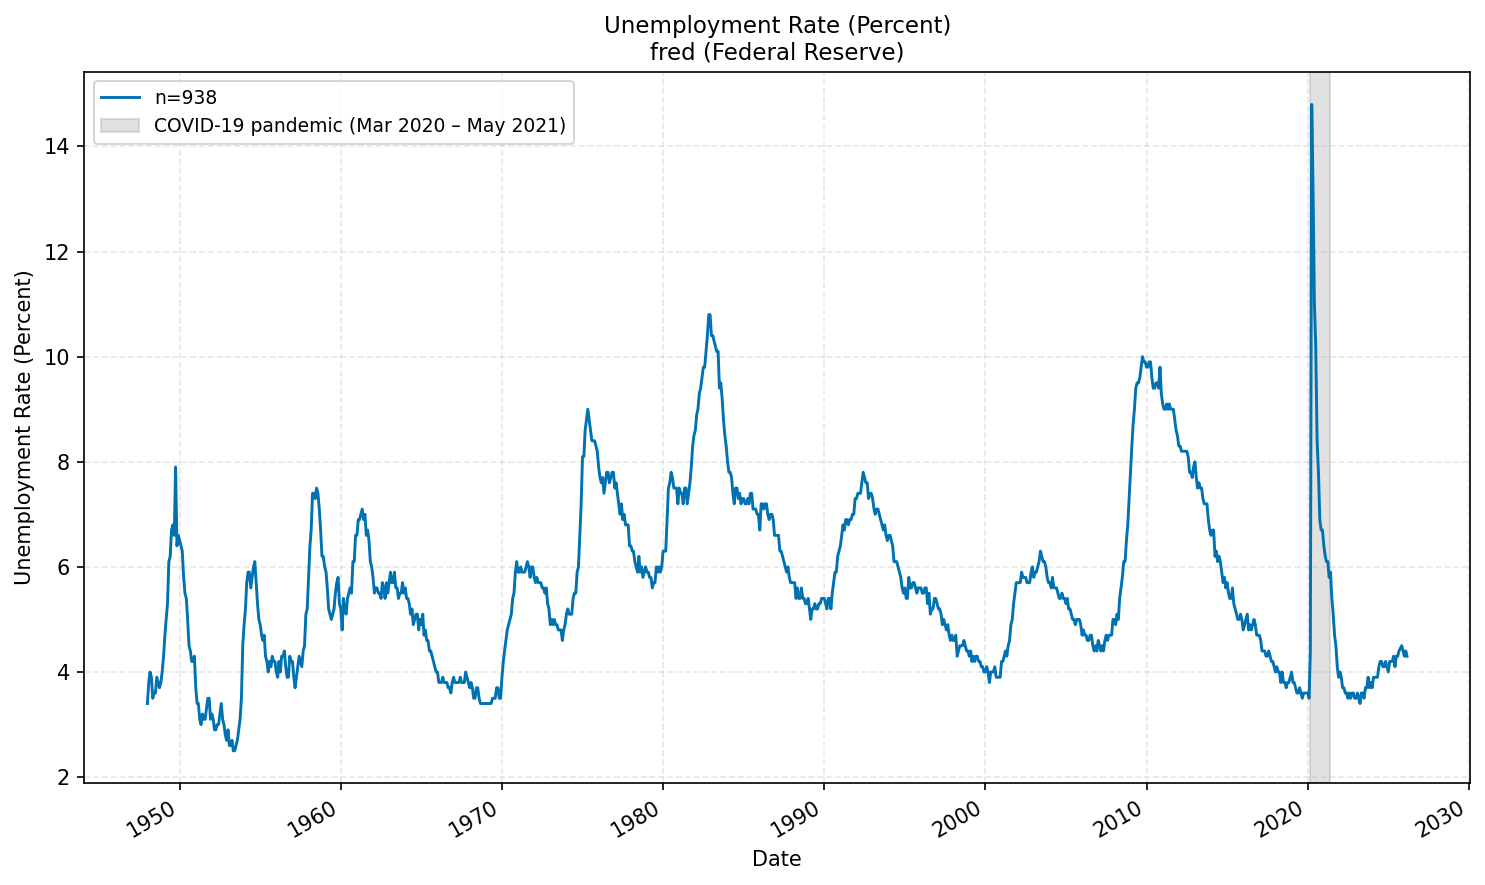
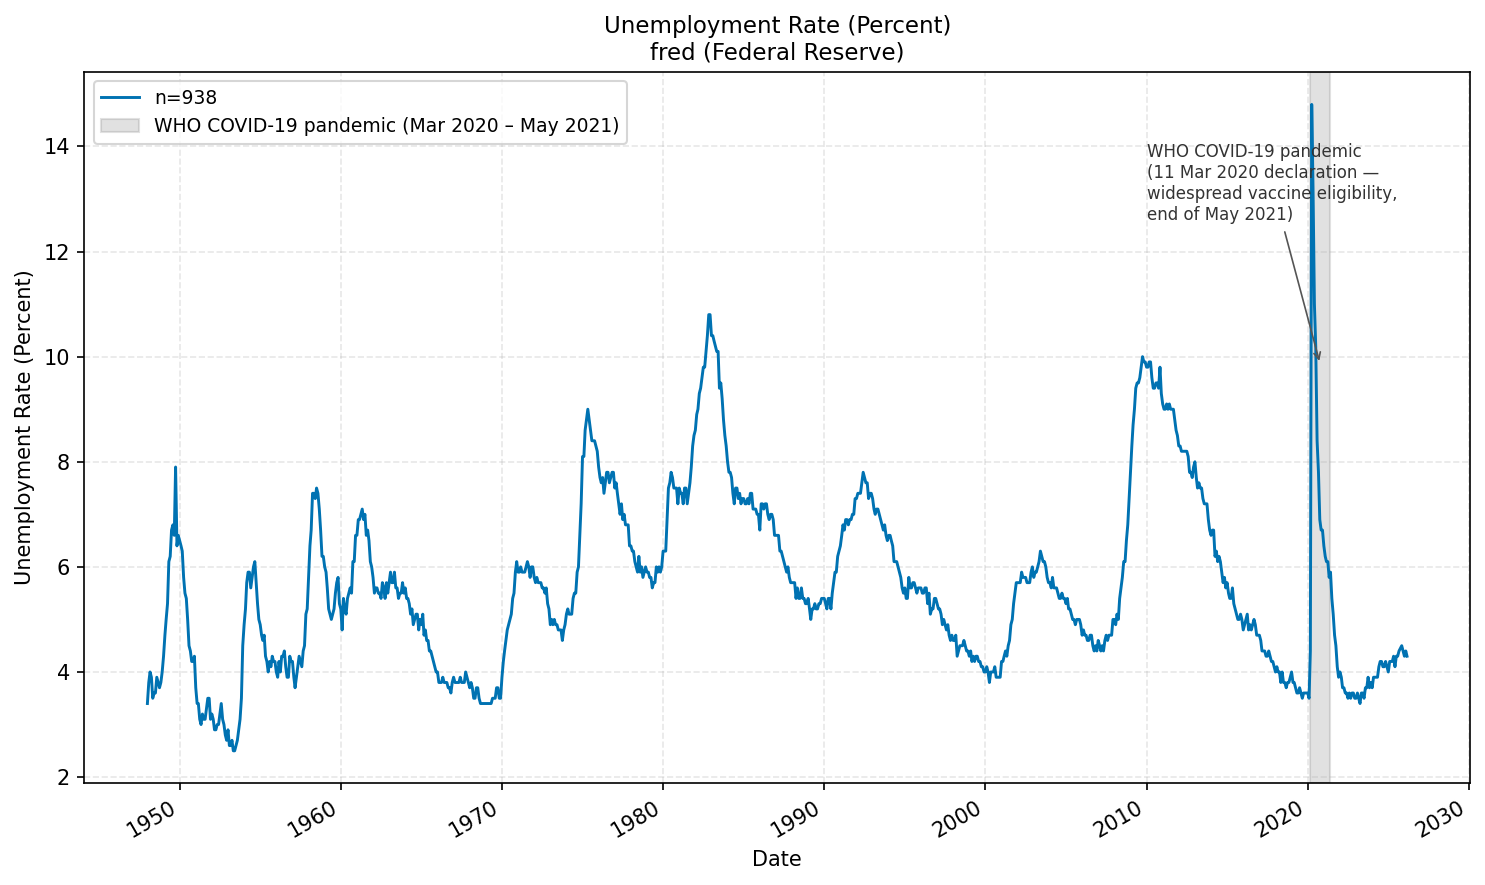
examples: annotate COVID band on UNRATE with WHO declaration label
Mirror of jpazvd.lab-config viz update. The grey band on the UNRATE
figure now has an in-figure callout pointing at the WHO COVID-19
pandemic declaration window.

Changed region(s): [[0.7744, 0.1525, 0.9293, 0.2441], [0.0929, 0.122, 0.4337, 0.1525]]

diff --git a/examples/mcp-smoke-test/mcp-figures.py b/examples/mcp-smoke-test/mcp-figures.py
@@ -297,7 +297,28 @@ def plot_fred_series(label: str, indicator: str, series: list[tuple[str, float]]
     covid_start = _dt(2020, 3, 1)
     covid_end = _dt(2021, 5, 31)
     if dates and dates[0] <= covid_end and dates[-1] >= covid_start:
-        ax.axvspan(covid_start, covid_end, color="#888888", alpha=0.25, label="COVID-19 pandemic (Mar 2020 – May 2021)")
+        ax.axvspan(
+            covid_start,
+            covid_end,
+            color="#888888",
+            alpha=0.25,
+            label="WHO COVID-19 pandemic (Mar 2020 – May 2021)",
+        )
+        # In-figure annotation pointing at the band so the meaning is obvious
+        # without the legend.
+        mid = covid_start + (covid_end - covid_start) / 2
+        y_max = max(values)
+        y_top = y_max * 0.95
+        ax.annotate(
+            "WHO COVID-19 pandemic\n(11 Mar 2020 declaration —\nwidespread vaccine eligibility,\nend of May 2021)",
+            xy=(mid, y_top * 0.7),
+            xytext=(_dt(2010, 1, 1), y_top),
+            fontsize=8,
+            color="#333333",
+            ha="left",
+            va="top",
+            arrowprops=dict(arrowstyle="->", color="#555555", lw=0.8),
+        )
     ax.set_xlabel("Date")
     ax.set_ylabel(indicator)
     ax.set_title(f"{indicator}\n{label}", fontsize=11)
